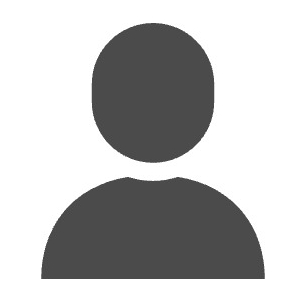
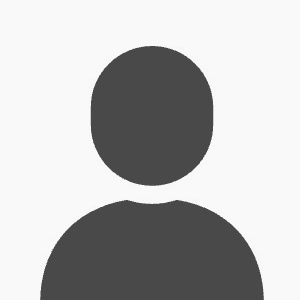
update-画像調整

Changed region(s): [[0.12, 0.06, 0.9, 1.0]]

diff --git a/resources/views/layouts/detail.blade.php b/resources/views/layouts/detail.blade.php
@@ -4,7 +4,7 @@
             <div class="blogDetailTitBox flex justify-between items-center">
                 <h2 class="text-2xl font-semibold">{{ $post->title }}</h2>
                 <div class="w-12 h-12 rounded-full overflow-hidden">
-                    <img src="{{ asset('storage/image/person.jpg') }}" alt="User Image" class="w-full h-full object-cover">
+                    <img src="{{ asset('img/person.jpg') }}" alt="User Image" class="w-full h-full object-cover">
                 </div>
             </div>
 
@@ -46,7 +46,6 @@
 </section>
 
 <section class="container mx-auto mt-5 px-4">
-    <!-- Comment Form -->
     <div class="flex items-start space-x-4">
         <div class="flex-grow">
             <textarea name="comment" class="w-full h-20 p-3 border border-gray-300 rounded-md resize-none focus:outline-none focus:ring-2 focus:ring-blue-500" placeholder="Add a comment..."></textarea>
@@ -56,11 +55,11 @@
         </button>
     </div>
 
-    <!-- Comments Area -->
+
     <div class="commentArea mt-5 space-y-4">
         <div class="flex space-x-4 items-start">
             <div class="w-12 h-12 rounded-full overflow-hidden">
-                <img src="" alt="User Image" class="w-full h-full object-cover">
+                <img src="{{ asset('img/person.jpg') }}"" alt="User Image" class="w-full h-full object-cover">
             </div>
             <div class="flex-grow">
                 <div class="bg-gray-100 p-3 rounded-lg">
